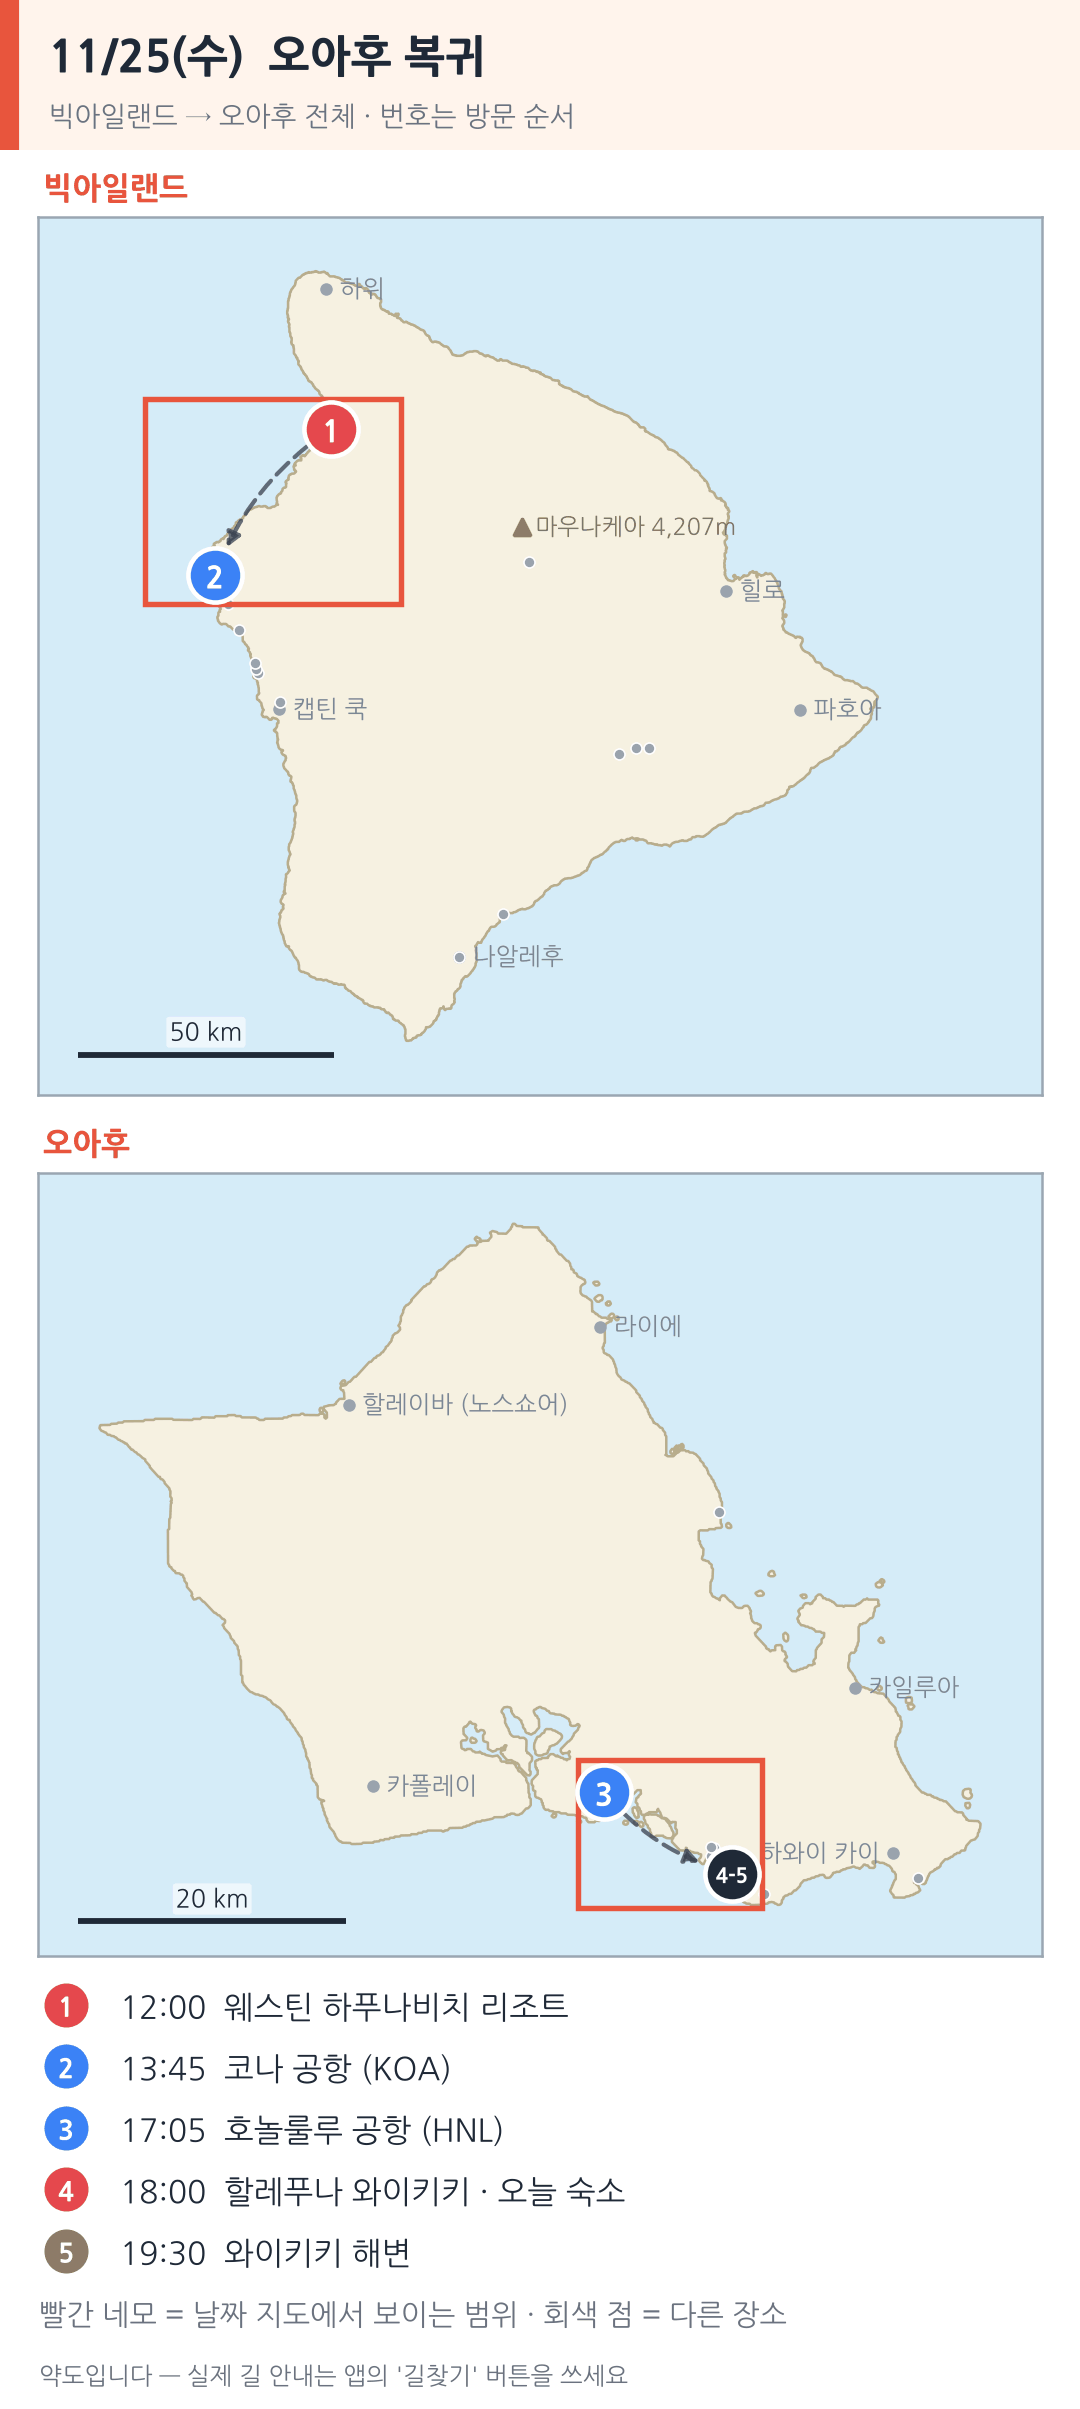
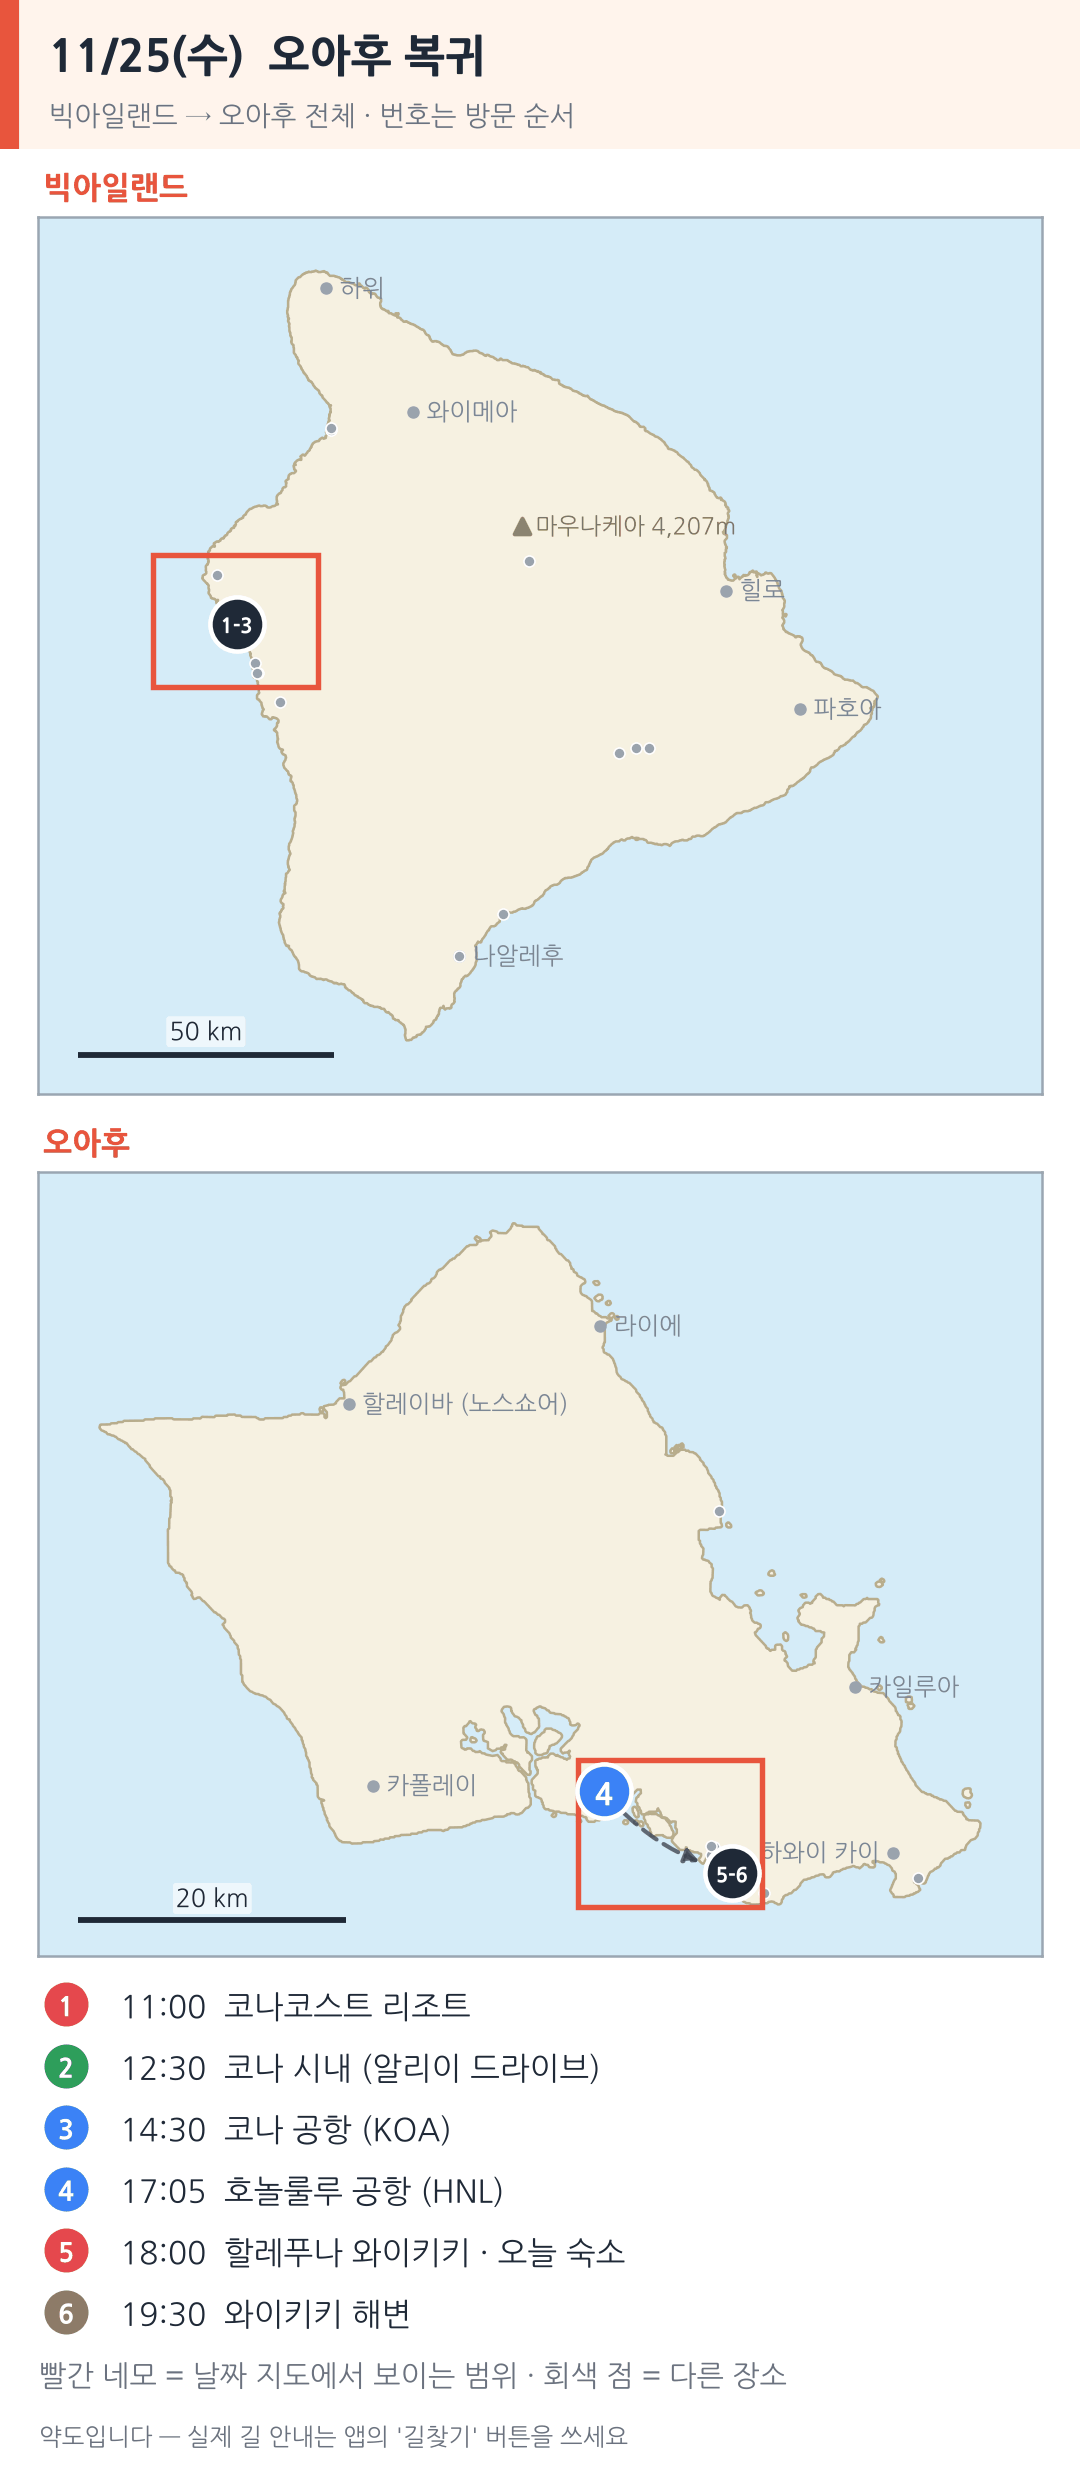
웨스틴 취소 반영: 11/23~25 코나 쪽 숙소(예약 필요)로, 투어 후보 추가
- 11/22 만타레이 야간 스노클 (케아우호우 베이 출발) 후보
- 11/23 캡틴쿡 스노클 크루즈 후보 · 헬기는 코나 출발 업체로
- 11/24 카할루우 비치 · 수영장 휴양, 11/25 숙소 → 코나 공항 택시·우버
- 할 일 맨 위에 11/23~25 숙소 예약, 만타·크루즈 예약 추가
- 케아우호우 베이 장소 추가 (좌표 추정), 지도 다시 만듦

Claude-Session: https://claude.ai/code/session_01TtVcSoKscqhBRvKoZFYa3E

diff --git a/sw.js b/sw.js
@@ -3,7 +3,7 @@
 // (파일을 고친 뒤 `node tools/build-precache.mjs` 를 실행하면 버전과 목록이 바뀐다 — 직접 고치지 말 것).
 
 /* PRECACHE:BEGIN */
-const VERSION = 'd3e8-72cf';
+const VERSION = '0b3b-2da1';
 const FILES = [
   ['index.html', '37595f72'],
   ['manifest.webmanifest', '433937d9'],
@@ -39,15 +39,15 @@ const FILES = [
   ['js/wallet.js', '6127bc56'],
   ['js/weather.js', 'f8590ea6'],
   ['vendor/qrcode.js', 'ea91d711'],
-  ['data/checklists.json', 'b1ca9f2d'],
+  ['data/checklists.json', 'cb47a2e6'],
   ['data/eats.json', '0616e132'],
-  ['data/ideas.json', '9835fec8'],
-  ['data/maps.json', '7062a9cd'],
+  ['data/ideas.json', '1676e2dc'],
+  ['data/maps.json', '0b52b9fc'],
   ['data/photos.json', '203050d9'],
   ['data/phrases.json', '222339e8'],
   ['data/secret.enc', 'b6362c2a'],
   ['data/transit.json', 'a4f530fd'],
-  ['data/trip.json', '9433b054'],
+  ['data/trip.json', '543fd761'],
   ['data/videos.json', 'f543b457'],
   ['maps/big-island.png', 'a8e3a173'],
   ['maps/day-1115-wide.png', '89913008'],
@@ -64,14 +64,14 @@ const FILES = [
   ['maps/day-1120.png', '331ec4c6'],
   ['maps/day-1121-wide.png', 'a40edc89'],
   ['maps/day-1121.png', 'a07f3207'],
-  ['maps/day-1122-wide.png', '696d2f62'],
-  ['maps/day-1122.png', 'e6af9d03'],
-  ['maps/day-1123-wide.png', '33f08f96'],
-  ['maps/day-1123.png', '307b08ed'],
-  ['maps/day-1124-wide.png', '6c2d0f33'],
-  ['maps/day-1124.png', '22346d4e'],
-  ['maps/day-1125-wide.png', '2952c95e'],
-  ['maps/day-1125.png', '97b32f96'],
+  ['maps/day-1122-wide.png', '7c9746c7'],
+  ['maps/day-1122.png', '86e11a37'],
+  ['maps/day-1123-wide.png', '6aef2001'],
+  ['maps/day-1123.png', 'b98b5021'],
+  ['maps/day-1124-wide.png', 'fb6dac94'],
+  ['maps/day-1124.png', '9a1a734e'],
+  ['maps/day-1125-wide.png', '2e3959a7'],
+  ['maps/day-1125.png', '38d283ba'],
   ['maps/day-1126-wide.png', 'c6447822'],
   ['maps/day-1126.png', 'ff2c2622'],
   ['maps/day-1127-wide.png', '6a1799ce'],
